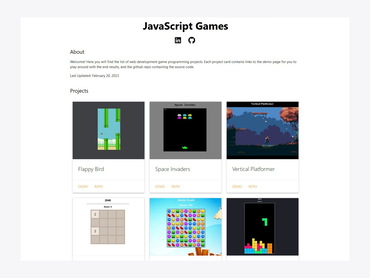
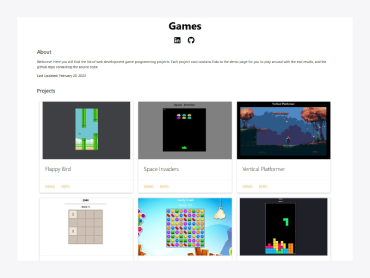
changed Games name

diff --git a/index.html b/index.html
@@ -55,7 +55,7 @@
       <div class="container">
         <h2 class="title-1">Projects</h2>
         <ul class="projects">
-          <!-- JavaScript Games -->
+          <!-- Games -->
           <li class="project">
             <a href="./JS-games.html" class="project__link">
               <img
@@ -63,7 +63,7 @@
                 alt="JavaScript Games"
                 class="project__img"
               />
-              <h3 class="project__title">JavaScript Games</h3>
+              <h3 class="project__title">Games</h3>
             </a>
           </li>
           <!-- Exchange rate -->

diff --git a/JS-games.html b/JS-games.html
@@ -41,7 +41,7 @@
     <main class="section">
       <div class="container">
         <div class="project-details">
-          <h1 class="title-1">JavaScript Games</h1>
+          <h1 class="title-1">Games</h1>
 
           <a href="https://hapikus.github.io/JS-Games/index.html" target="_blank">
             <img
